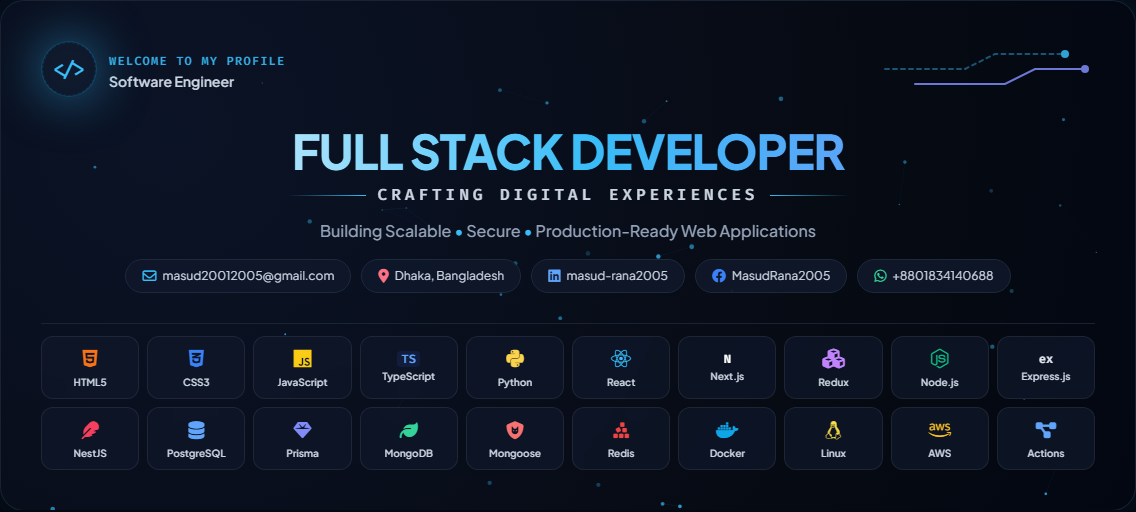
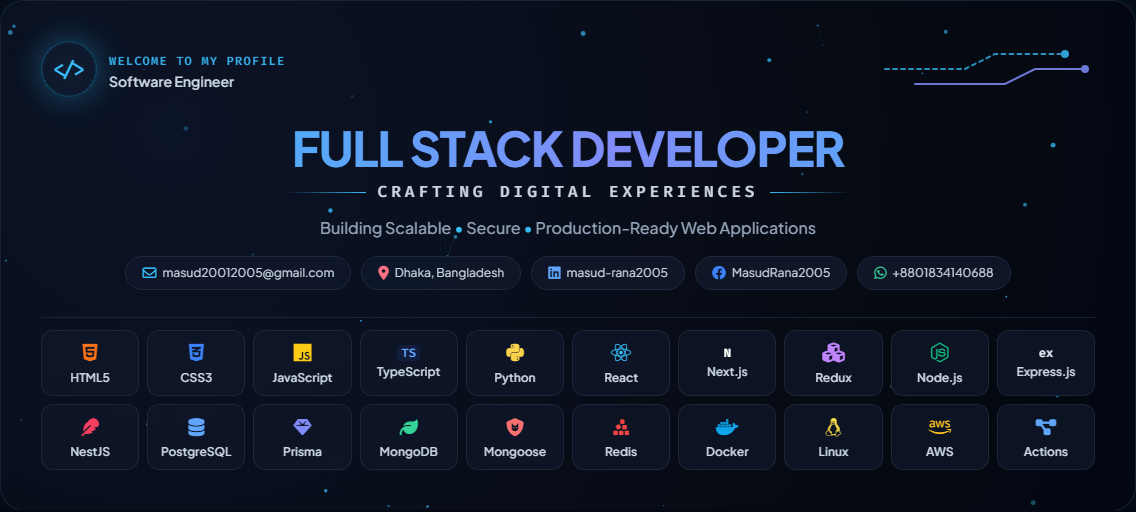
Update tech badge font sizes to 12px

diff --git a/banner-generator.html b/banner-generator.html
@@ -170,43 +170,43 @@
             <div class="grid grid-cols-5 sm:grid-cols-10 gap-2 mb-2">
                 <div class="tech-badge p-2 rounded-xl flex flex-col items-center justify-center text-center">
                     <i class="fa-brands fa-html5 text-xl text-orange-500 mb-0.5"></i>
-                    <span class="text-[10px] font-semibold text-slate-300">HTML5</span>
+                    <span class="text-[12px] font-semibold text-slate-300">HTML5</span>
                 </div>
                 <div class="tech-badge p-2 rounded-xl flex flex-col items-center justify-center text-center">
                     <i class="fa-brands fa-css3-alt text-xl text-blue-500 mb-0.5"></i>
-                    <span class="text-[10px] font-semibold text-slate-300">CSS3</span>
+                    <span class="text-[12px] font-semibold text-slate-300">CSS3</span>
                 </div>
                 <div class="tech-badge p-2 rounded-xl flex flex-col items-center justify-center text-center">
                     <i class="fa-brands fa-js text-xl text-yellow-400 mb-0.5"></i>
-                    <span class="text-[10px] font-semibold text-slate-300">JavaScript</span>
+                    <span class="text-[12px] font-semibold text-slate-300">JavaScript</span>
                 </div>
                 <div class="tech-badge p-2 rounded-xl flex flex-col items-center justify-center text-center">
                     <span class="text-xs font-bold text-blue-400 code-font mb-0.5 bg-blue-950/50 px-1 rounded">TS</span>
-                    <span class="text-[10px] font-semibold text-slate-300">TypeScript</span>
+                    <span class="text-[12px] font-semibold text-slate-300">TypeScript</span>
                 </div>
                 <div class="tech-badge p-2 rounded-xl flex flex-col items-center justify-center text-center">
                     <i class="fa-brands fa-python text-xl text-amber-300 mb-0.5"></i>
-                    <span class="text-[10px] font-semibold text-slate-300">Python</span>
+                    <span class="text-[12px] font-semibold text-slate-300">Python</span>
                 </div>
                 <div class="tech-badge p-2 rounded-xl flex flex-col items-center justify-center text-center">
                     <i class="fa-brands fa-react text-xl text-sky-400 mb-0.5"></i>
-                    <span class="text-[10px] font-semibold text-slate-300">React</span>
+                    <span class="text-[12px] font-semibold text-slate-300">React</span>
                 </div>
                 <div class="tech-badge p-2 rounded-xl flex flex-col items-center justify-center text-center">
                     <span class="text-xs font-bold text-white code-font mb-0.5">N</span>
-                    <span class="text-[10px] font-semibold text-slate-300">Next.js</span>
+                    <span class="text-[12px] font-semibold text-slate-300">Next.js</span>
                 </div>
                 <div class="tech-badge p-2 rounded-xl flex flex-col items-center justify-center text-center">
                     <i class="fa-solid fa-cubes text-xl text-purple-400 mb-0.5"></i>
-                    <span class="text-[10px] font-semibold text-slate-300">Redux</span>
+                    <span class="text-[12px] font-semibold text-slate-300">Redux</span>
                 </div>
                 <div class="tech-badge p-2 rounded-xl flex flex-col items-center justify-center text-center">
                     <i class="fa-brands fa-node-js text-xl text-emerald-500 mb-0.5"></i>
-                    <span class="text-[10px] font-semibold text-slate-300">Node.js</span>
+                    <span class="text-[12px] font-semibold text-slate-300">Node.js</span>
                 </div>
                 <div class="tech-badge p-2 rounded-xl flex flex-col items-center justify-center text-center">
                     <span class="text-xs font-extrabold text-slate-200 code-font mb-0.5">ex</span>
-                    <span class="text-[10px] font-semibold text-slate-300">Express.js</span>
+                    <span class="text-[12px] font-semibold text-slate-300">Express.js</span>
                 </div>
             </div>
 
@@ -214,43 +214,43 @@
             <div class="grid grid-cols-5 sm:grid-cols-10 gap-2">
                 <div class="tech-badge p-2 rounded-xl flex flex-col items-center justify-center text-center">
                     <i class="fa-solid fa-feather text-lg text-rose-500 mb-0.5"></i>
-                    <span class="text-[10px] font-semibold text-slate-300">NestJS</span>
+                    <span class="text-[12px] font-semibold text-slate-300">NestJS</span>
                 </div>
                 <div class="tech-badge p-2 rounded-xl flex flex-col items-center justify-center text-center">
                     <i class="fa-solid fa-database text-lg text-blue-400 mb-0.5"></i>
-                    <span class="text-[10px] font-semibold text-slate-300">PostgreSQL</span>
+                    <span class="text-[12px] font-semibold text-slate-300">PostgreSQL</span>
                 </div>
                 <div class="tech-badge p-2 rounded-xl flex flex-col items-center justify-center text-center">
                     <i class="fa-solid fa-gem text-lg text-indigo-400 mb-0.5"></i>
-                    <span class="text-[10px] font-semibold text-slate-300">Prisma</span>
+                    <span class="text-[12px] font-semibold text-slate-300">Prisma</span>
                 </div>
                 <div class="tech-badge p-2 rounded-xl flex flex-col items-center justify-center text-center">
                     <i class="fa-solid fa-leaf text-lg text-emerald-400 mb-0.5"></i>
-                    <span class="text-[10px] font-semibold text-slate-300">MongoDB</span>
+                    <span class="text-[12px] font-semibold text-slate-300">MongoDB</span>
                 </div>
                 <div class="tech-badge p-2 rounded-xl flex flex-col items-center justify-center text-center">
                     <i class="fa-solid fa-shield-cat text-lg text-red-400 mb-0.5"></i>
-                    <span class="text-[10px] font-semibold text-slate-300">Mongoose</span>
+                    <span class="text-[12px] font-semibold text-slate-300">Mongoose</span>
                 </div>
                 <div class="tech-badge p-2 rounded-xl flex flex-col items-center justify-center text-center">
                     <i class="fa-solid fa-cubes-stacked text-lg text-red-500 mb-0.5"></i>
-                    <span class="text-[10px] font-semibold text-slate-300">Redis</span>
+                    <span class="text-[12px] font-semibold text-slate-300">Redis</span>
                 </div>
                 <div class="tech-badge p-2 rounded-xl flex flex-col items-center justify-center text-center">
                     <i class="fa-brands fa-docker text-lg text-sky-500 mb-0.5"></i>
-                    <span class="text-[10px] font-semibold text-slate-300">Docker</span>
+                    <span class="text-[12px] font-semibold text-slate-300">Docker</span>
                 </div>
                 <div class="tech-badge p-2 rounded-xl flex flex-col items-center justify-center text-center">
                     <i class="fa-brands fa-linux text-lg text-yellow-300 mb-0.5"></i>
-                    <span class="text-[10px] font-semibold text-slate-300">Linux</span>
+                    <span class="text-[12px] font-semibold text-slate-300">Linux</span>
                 </div>
                 <div class="tech-badge p-2 rounded-xl flex flex-col items-center justify-center text-center">
                     <i class="fa-brands fa-aws text-lg text-amber-400 mb-0.5"></i>
-                    <span class="text-[10px] font-semibold text-slate-300">AWS</span>
+                    <span class="text-[12px] font-semibold text-slate-300">AWS</span>
                 </div>
                 <div class="tech-badge p-2 rounded-xl flex flex-col items-center justify-center text-center">
                     <i class="fa-solid fa-diagram-project text-lg text-blue-400 mb-0.5"></i>
-                    <span class="text-[10px] font-semibold text-slate-300">Actions</span>
+                    <span class="text-[12px] font-semibold text-slate-300">Actions</span>
                 </div>
             </div>
         </div>
